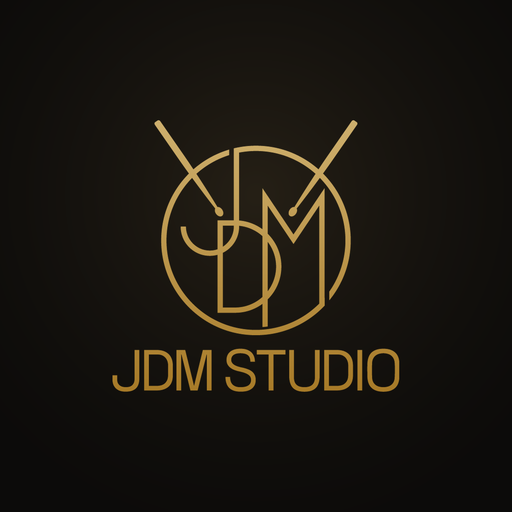
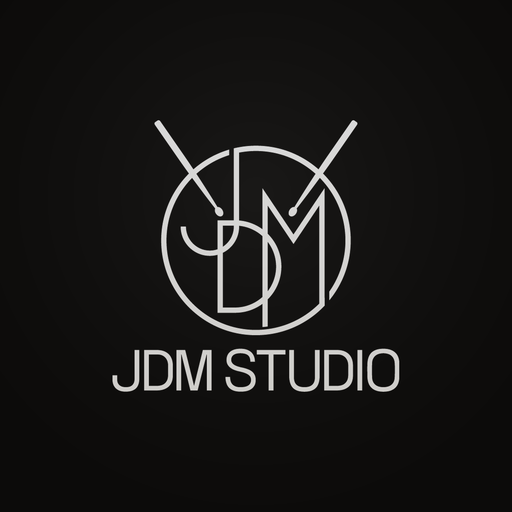
2.49.3: 앱 아이콘 흰색 로고로
Claude-Session: https://claude.ai/code/session_01UTjdMKt4mmKY2ZrPRwQn6L

diff --git a/sw.js b/sw.js
@@ -1,5 +1,5 @@
 /* JDM 악보 플레이어 — offline cache. A new version waits until the app says "업데이트". */
-const CACHE='jdm-2.49.2-2a1abce970';
+const CACHE='jdm-2.49.3-c95f862756';
 const FILES=["./", "index.html", "analyze.js", "tempo.js", "manifest.webmanifest", "icon-192.png", "icon-512.png", "icon-maskable.png", "privacy.html", "licenses.html", "vendor/pdf.min.js", "vendor/opensheetmusicdisplay.min.js", "vendor/pdf.worker.min.js", "vendor/img/logo96.png", "vendor/img/hero.jpg", "vendor/fonts/cormorant-garamond-latin-600-normal.woff2", "vendor/fonts/ibm-plex-mono-latin-600-normal.woff2", "vendor/fonts/cormorant-garamond-latin-600-italic.woff2", "vendor/fonts/ibm-plex-mono-latin-500-normal.woff2", "vendor/fonts/cormorant-garamond-latin-500-normal.woff2", "vendor/fonts/PretendardVariable.woff2", "vendor/fonts/cormorant-garamond-latin-500-italic.woff2", "vendor/fonts/serifkr/noto-serif-kr-76-600-normal.woff2", "vendor/fonts/serifkr/noto-serif-kr-108-600-normal.woff2", "vendor/fonts/serifkr/noto-serif-kr-korean-600-normal.woff2", "vendor/fonts/serifkr/noto-serif-kr-30-600-normal.woff2", "vendor/fonts/serifkr/noto-serif-kr-98-600-normal.woff2", "vendor/fonts/serifkr/noto-serif-kr-0-600-normal.woff2", "vendor/fonts/serifkr/noto-serif-kr-vietnamese-600-normal.woff2", "vendor/fonts/serifkr/noto-serif-kr-53-600-normal.woff2", "vendor/fonts/serifkr/noto-serif-kr-110-600-normal.woff2", "vendor/fonts/serifkr/noto-serif-kr-46-600-normal.woff2", "vendor/fonts/serifkr/noto-serif-kr-1-600-normal.woff2", "vendor/fonts/serifkr/noto-serif-kr-70-600-normal.woff2", "vendor/fonts/serifkr/noto-serif-kr-104-600-normal.woff2", "vendor/fonts/serifkr/noto-serif-kr-20-600-normal.woff2", "vendor/fonts/serifkr/noto-serif-kr-67-600-normal.woff2", "vendor/fonts/serifkr/noto-serif-kr-77-600-normal.woff2", "vendor/fonts/serifkr/noto-serif-kr-7-600-normal.woff2", "vendor/fonts/serifkr/noto-serif-kr-79-600-normal.woff2", "vendor/fonts/serifkr/noto-serif-kr-61-600-normal.woff2", "vendor/fonts/serifkr/noto-serif-kr-91-600-normal.woff2", "vendor/fonts/serifkr/noto-serif-kr-73-600-normal.woff2", "vendor/fonts/serifkr/noto-serif-kr-99-600-normal.woff2", "vendor/fonts/serifkr/noto-serif-kr-4-600-normal.woff2", "vendor/fonts/serifkr/noto-serif-kr-97-600-normal.woff2", "vendor/fonts/serifkr/noto-serif-kr-87-600-normal.woff2", "vendor/fonts/serifkr/noto-serif-kr-11-600-normal.woff2", "vendor/fonts/serifkr/noto-serif-kr-60-600-normal.woff2", "vendor/fonts/serifkr/noto-serif-kr-35-600-normal.woff2", "vendor/fonts/serifkr/noto-serif-kr-82-600-normal.woff2", "vendor/fonts/serifkr/noto-serif-kr-6-600-normal.woff2", "vendor/fonts/serifkr/noto-serif-kr-112-600-normal.woff2", "vendor/fonts/serifkr/noto-serif-kr-80-600-normal.woff2", "vendor/fonts/serifkr/noto-serif-kr-93-600-normal.woff2", "vendor/fonts/serifkr/noto-serif-kr-14-600-normal.woff2", "vendor/fonts/serifkr/noto-serif-kr-19-600-normal.woff2", "vendor/fonts/serifkr/noto-serif-kr-47-600-normal.woff2", "vendor/fonts/serifkr/noto-serif-kr-92-600-normal.woff2", "vendor/fonts/serifkr/noto-serif-kr-45-600-normal.woff2", "vendor/fonts/serifkr/noto-serif-kr-cyrillic-600-normal.woff2", "vendor/fonts/serifkr/noto-serif-kr-88-600-normal.woff2", "vendor/fonts/serifkr/noto-serif-kr-49-600-normal.woff2", "vendor/fonts/serifkr/noto-serif-kr-65-600-normal.woff2", "vendor/fonts/serifkr/noto-serif-kr-29-600-normal.woff2", "vendor/fonts/serifkr/noto-serif-kr-9-600-normal.woff2", "vendor/fonts/serifkr/noto-serif-kr-116-600-normal.woff2", "vendor/fonts/serifkr/noto-serif-kr-32-600-normal.woff2", "vendor/fonts/serifkr/noto-serif-kr-86-600-normal.woff2", "vendor/fonts/serifkr/noto-serif-kr-115-600-normal.woff2", "vendor/fonts/serifkr/noto-serif-kr-33-600-normal.woff2", "vendor/fonts/serifkr/noto-serif-kr-64-600-normal.woff2", "vendor/fonts/serifkr/noto-serif-kr-78-600-normal.woff2", "vendor/fonts/serifkr/noto-serif-kr-95-600-normal.woff2", "vendor/fonts/serifkr/noto-serif-kr-63-600-normal.woff2", "vendor/fonts/serifkr/noto-serif-kr-84-600-normal.woff2", "vendor/fonts/serifkr/noto-serif-kr-59-600-normal.woff2", "vendor/fonts/serifkr/noto-serif-kr-85-600-normal.woff2", "vendor/fonts/serifkr/noto-serif-kr-81-600-normal.woff2", "vendor/fonts/serifkr/noto-serif-kr-111-600-normal.woff2", "vendor/fonts/serifkr/noto-serif-kr-39-600-normal.woff2", "vendor/fonts/serifkr/noto-serif-kr-10-600-normal.woff2", "vendor/fonts/serifkr/noto-serif-kr-74-600-normal.woff2", "vendor/fonts/serifkr/noto-serif-kr-21-600-normal.woff2", "vendor/fonts/serifkr/noto-serif-kr-119-600-normal.woff2", "vendor/fonts/serifkr/noto-serif-kr-16-600-normal.woff2", "vendor/fonts/serifkr/noto-serif-kr-8-600-normal.woff2", "vendor/fonts/serifkr/noto-serif-kr-118-600-normal.woff2", "vendor/fonts/serifkr/noto-serif-kr-41-600-normal.woff2", "vendor/fonts/serifkr/noto-serif-kr-55-600-normal.woff2", "vendor/fonts/serifkr/noto-serif-kr-103-600-normal.woff2", "vendor/fonts/serifkr/noto-serif-kr-101-600-normal.woff2", "vendor/fonts/serifkr/noto-serif-kr-17-600-normal.woff2", "vendor/fonts/serifkr/noto-serif-kr-18-600-normal.woff2", "vendor/fonts/serifkr/noto-serif-kr-36-600-normal.woff2", "vendor/fonts/serifkr/noto-serif-kr-75-600-normal.woff2", "vendor/fonts/serifkr/noto-serif-kr-51-600-normal.woff2", "vendor/fonts/serifkr/noto-serif-kr-28-600-normal.woff2", "vendor/fonts/serifkr/noto-serif-kr-43-600-normal.woff2", "vendor/fonts/serifkr/noto-serif-kr-89-600-normal.woff2", "vendor/fonts/serifkr/noto-serif-kr-40-600-normal.woff2", "vendor/fonts/serifkr/noto-serif-kr-44-600-normal.woff2", "vendor/fonts/serifkr/noto-serif-kr-12-600-normal.woff2", "vendor/fonts/serifkr/noto-serif-kr-57-600-normal.woff2", "vendor/fonts/serifkr/noto-serif-kr-102-600-normal.woff2", "vendor/fonts/serifkr/noto-serif-kr-38-600-normal.woff2", "vendor/fonts/serifkr/noto-serif-kr-31-600-normal.woff2", "vendor/fonts/serifkr/noto-serif-kr-114-600-normal.woff2", "vendor/fonts/serifkr/noto-serif-kr-22-600-normal.woff2", "vendor/fonts/serifkr/noto-serif-kr-90-600-normal.woff2", "vendor/fonts/serifkr/noto-serif-kr-3-600-normal.woff2", "vendor/fonts/serifkr/noto-serif-kr-26-600-normal.woff2", "vendor/fonts/serifkr/noto-serif-kr-58-600-normal.woff2", "vendor/fonts/serifkr/noto-serif-kr-94-600-normal.woff2", "vendor/fonts/serifkr/noto-serif-kr-23-600-normal.woff2", "vendor/fonts/serifkr/noto-serif-kr-117-600-normal.woff2", "vendor/fonts/serifkr/noto-serif-kr-105-600-normal.woff2", "vendor/fonts/serifkr/noto-serif-kr-15-600-normal.woff2", "vendor/fonts/serifkr/noto-serif-kr-50-600-normal.woff2", "vendor/fonts/serifkr/noto-serif-kr-109-600-normal.woff2", "vendor/fonts/serifkr/noto-serif-kr-83-600-normal.woff2", "vendor/fonts/serifkr/noto-serif-kr-27-600-normal.woff2", "vendor/fonts/serifkr/noto-serif-kr-2-600-normal.woff2", "vendor/fonts/serifkr/noto-serif-kr-71-600-normal.woff2", "vendor/fonts/serifkr/noto-serif-kr-52-600-normal.woff2", "vendor/fonts/serifkr/noto-serif-kr-13-600-normal.woff2", "vendor/fonts/serifkr/noto-serif-kr-113-600-normal.woff2", "vendor/fonts/serifkr/noto-serif-kr-56-600-normal.woff2", "vendor/fonts/serifkr/noto-serif-kr-37-600-normal.woff2", "vendor/fonts/serifkr/noto-serif-kr-latin-600-normal.woff2", "vendor/fonts/serifkr/noto-serif-kr-54-600-normal.woff2", "vendor/fonts/serifkr/noto-serif-kr-100-600-normal.woff2", "vendor/fonts/serifkr/noto-serif-kr-24-600-normal.woff2", "vendor/fonts/serifkr/noto-serif-kr-25-600-normal.woff2", "vendor/fonts/serifkr/noto-serif-kr-62-600-normal.woff2", "vendor/fonts/serifkr/noto-serif-kr-48-600-normal.woff2", "vendor/fonts/serifkr/noto-serif-kr-42-600-normal.woff2", "vendor/fonts/serifkr/noto-serif-kr-5-600-normal.woff2", "vendor/fonts/serifkr/noto-serif-kr-66-600-normal.woff2", "vendor/fonts/serifkr/noto-serif-kr-69-600-normal.woff2", "vendor/fonts/serifkr/noto-serif-kr-34-600-normal.woff2", "vendor/fonts/serifkr/noto-serif-kr-107-600-normal.woff2", "vendor/fonts/serifkr/noto-serif-kr-106-600-normal.woff2", "vendor/fonts/serifkr/noto-serif-kr-68-600-normal.woff2", "vendor/fonts/serifkr/noto-serif-kr-96-600-normal.woff2", "vendor/fonts/serifkr/noto-serif-kr-72-600-normal.woff2", "vendor/fonts/serifkr/noto-serif-kr-latin-ext-600-normal.woff2"];
 self.addEventListener('install',e=>{e.waitUntil(caches.open(CACHE).then(c=>c.addAll(FILES)))});
 self.addEventListener('activate',e=>{e.waitUntil(caches.keys().then(ks=>Promise.all(ks.filter(k=>k!==CACHE).map(k=>caches.delete(k)))).then(()=>self.clients.claim()))});

diff --git a/index.html b/index.html
@@ -3968,7 +3968,7 @@ window.addEventListener('load',()=>setTimeout(()=>{try{const lo=document.getElem
 <script>
 /* ===== app behaviour (installed on a phone / from the store) ===== */
 (function(){const $=id=>document.getElementById(id);
-  const APP_VER='2.49.2';{const v=$('appVer');if(v)v.textContent='v'+APP_VER}
+  const APP_VER='2.49.3';{const v=$('appVer');if(v)v.textContent='v'+APP_VER}
   // ---- Android back button: closes what is open (menu, settings, search...) instead of leaving the app
   const OV=[['moreSheet',()=>$('msClose').click()],['ytSearch',()=>closeSearch()],['syncPop',()=>$('spClose').click()],['tapFix',()=>$('tfCancel').click()],
     ['libOv',()=>{const b=document.querySelector('#libOv .sp-x,#libOv [data-close],#libClose');b?b.click():($('libOv').hidden=true)}],
